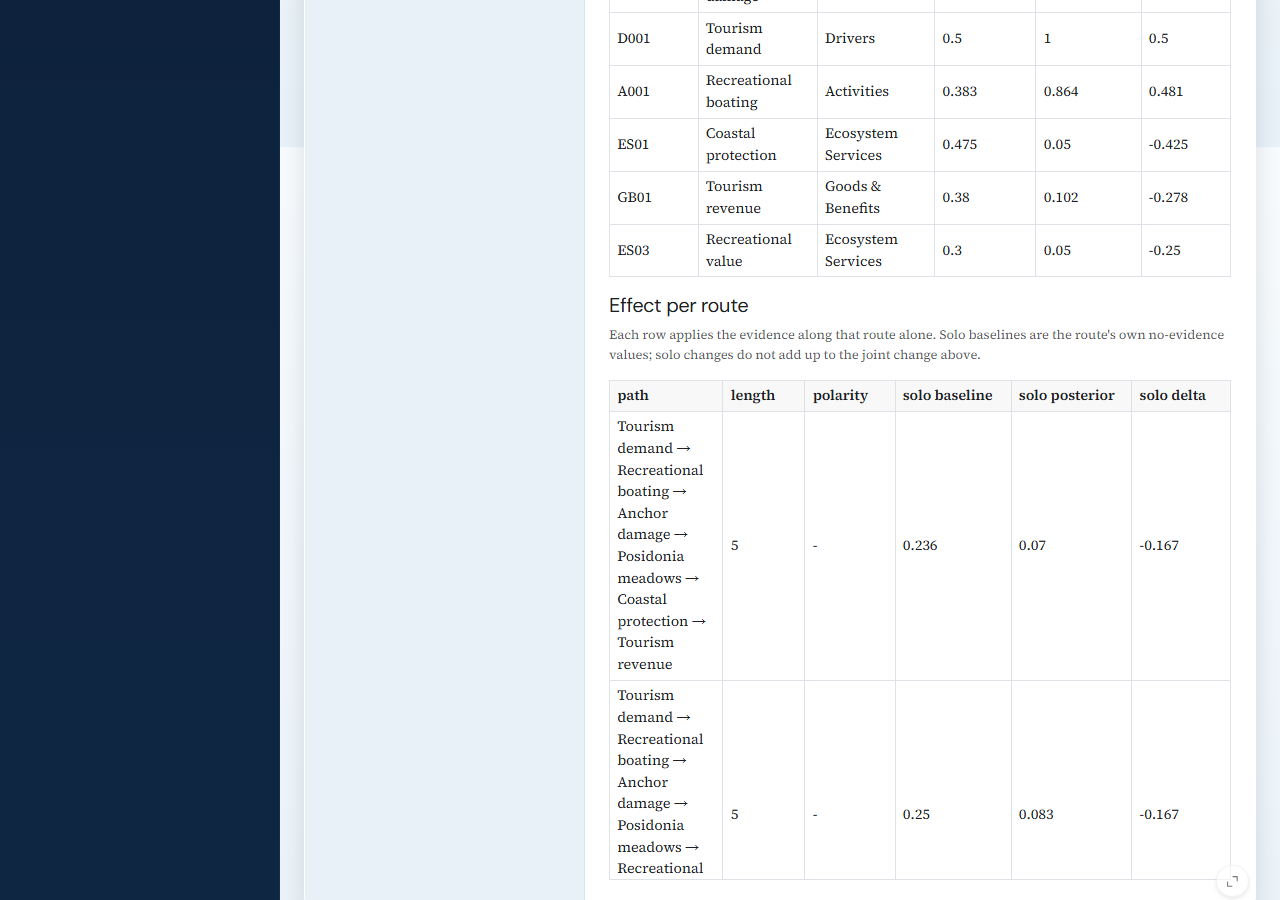
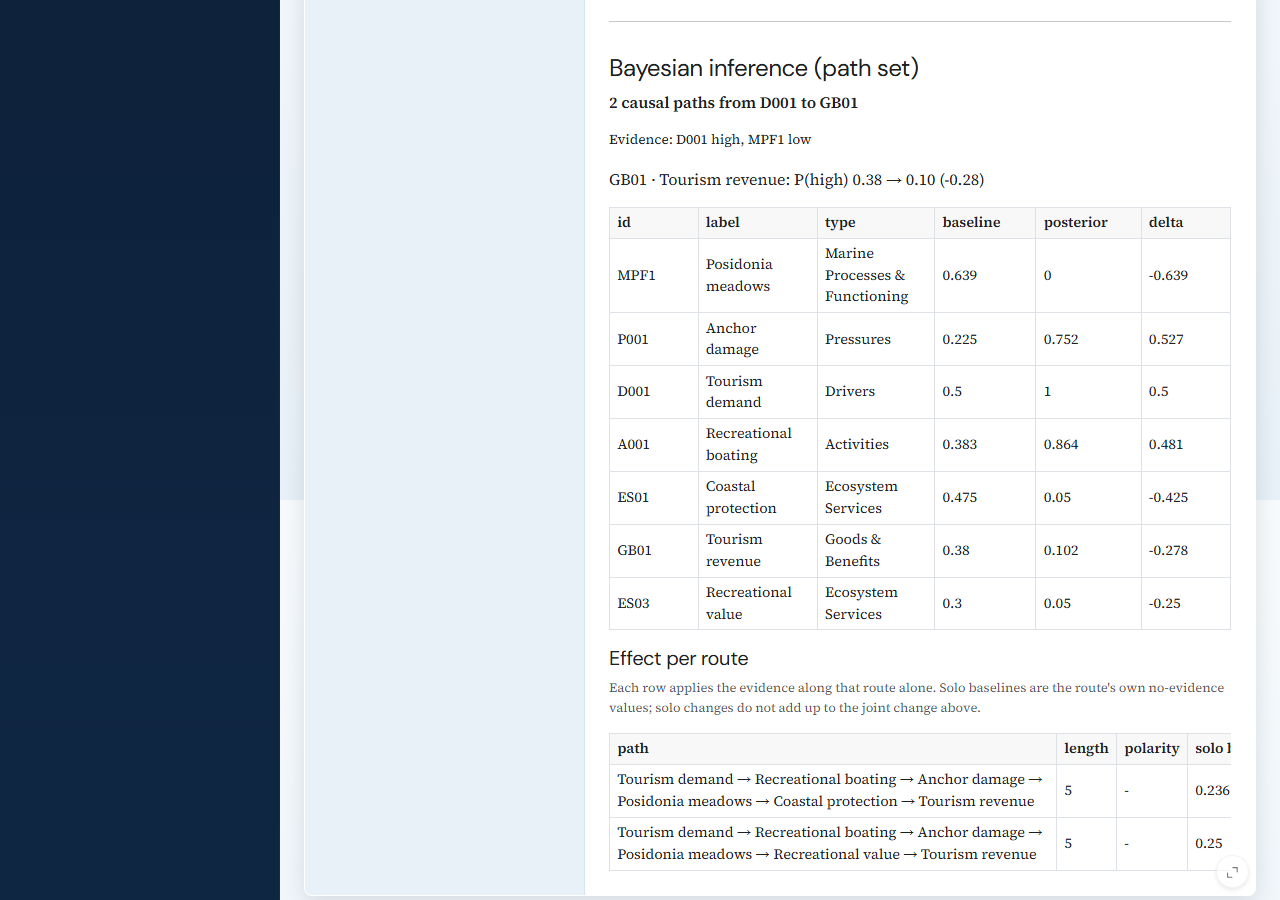
fix(docs): widen the bbn route-path column and grow the shot viewport
The Effect-per-route table wrapped each path into ~10 lines because the
grid gave the path column no minimum width, which is a display defect in
the app itself, not only in the doc screenshot. bbn_paths now renders via
render.DataGrid with a 28rem min-width style on column 0 (same pattern as
rate_connections.py), cutting each path to 2-3 lines.

make_docs_screenshots.shot_at() now grows the viewport (up to 1400px tall)
for the one bbn shot when sel + bottom_sel do not both fit at 900px,
re-scrolling to the same anchor, and restores 900px afterward; it only
falls back to scrolling past the top of the summary if the block still
does not fit at 1400px. The regenerated intervention_bbn.png now shows the
evidence line, the target line, the full table and both route rows
together.

Claude-Session: https://claude.ai/code/session_01FeeVsn6xUxEtPnY7vSrijN

diff --git a/tests/make_docs_screenshots.py b/tests/make_docs_screenshots.py
@@ -145,33 +145,54 @@ class Shooter:
         """Screenshot with the first boxed descendant of `sel` parked under
         the topbar (the metrics cascade capture pattern). If `bottom_sel` is
         given and its first boxed descendant's bottom edge falls below the
-        viewport, scroll down by the overflow so that block is fully in
-        frame, sacrificing the top of `sel` if the combined block is taller
-        than the viewport."""
-        scroll_y = await self.page.eval_on_selector(
-            sel,
-            "el => { const box = Array.from(el.querySelectorAll('*'))"
-            "    .find(c => c.getBoundingClientRect().height > 0) || el;"
-            "  const y = box.getBoundingClientRect().top + window.scrollY - 90;"
-            "  window.scrollTo({top: y, behavior: 'instant'}); return window.scrollY; }")
-        await self.page.wait_for_timeout(500)
-        if not scroll_y:
-            self.warn(f"{name}: {sel} did not scroll into view")
-        if bottom_sel:
-            overflow = await self.page.eval_on_selector(
+        viewport, grow the viewport for this one shot (up to 1400px tall) so
+        both `sel` and `bottom_sel` fit together, re-scrolling to the same
+        anchor; only if the block still does not fit at 1400px does it fall
+        back to scrolling down by the remaining overflow (sacrificing the
+        top of `sel`)."""
+        async def _scroll_to_sel() -> float:
+            return await self.page.eval_on_selector(
+                sel,
+                "el => { const box = Array.from(el.querySelectorAll('*'))"
+                "    .find(c => c.getBoundingClientRect().height > 0) || el;"
+                "  const y = box.getBoundingClientRect().top + window.scrollY - 90;"
+                "  window.scrollTo({top: y, behavior: 'instant'}); return window.scrollY; }")
+
+        async def _overflow() -> float:
+            return await self.page.eval_on_selector(
                 bottom_sel,
                 "el => { const box = Array.from(el.querySelectorAll('*'))"
                 "    .find(c => c.getBoundingClientRect().height > 0) || el;"
-                "  const bottom = box.getBoundingClientRect().bottom;"
-                "  const over = bottom - (window.innerHeight - 20);"
-                "  if (over > 0) window.scrollBy({top: over, behavior: 'instant'});"
-                "  return over; }")
+                "  return box.getBoundingClientRect().bottom - (window.innerHeight - 20); }")
+
+        scroll_y = await _scroll_to_sel()
+        await self.page.wait_for_timeout(500)
+        if not scroll_y:
+            self.warn(f"{name}: {sel} did not scroll into view")
+
+        grew_viewport = False
+        if bottom_sel:
+            overflow = await _overflow()
             if overflow and overflow > 0:
+                new_height = min(1400, 900 + overflow)
+                await self.page.set_viewport_size({"width": 1280, "height": int(new_height)})
+                grew_viewport = True
                 await self.page.wait_for_timeout(300)
+                await _scroll_to_sel()
+                await self.page.wait_for_timeout(300)
+                overflow = await _overflow()
+                if overflow and overflow > 0:
+                    await self.page.evaluate(
+                        "(o) => window.scrollBy({top: o, behavior: 'instant'})", overflow)
+                    await self.page.wait_for_timeout(300)
+
         path = self.out / f"{name}.png"
         await self.page.screenshot(path=str(path), full_page=False)
         print(f"wrote {path} ({path.stat().st_size} bytes)")
         self.written.append(path)
+        if grew_viewport:
+            await self.page.set_viewport_size({"width": 1280, "height": 900})
+            await self.page.wait_for_timeout(300)
 
     async def hide_notifications(self) -> None:
         await self.page.evaluate(

diff --git a/sespy_app/modules/analysis_intervention.py b/sespy_app/modules/analysis_intervention.py
@@ -629,7 +629,7 @@ def analysis_intervention_server(
         if not isinstance(r, dict) or "error" in r:     # None, _COMPUTING, or an error
             return pd.DataFrame(columns=cols)
         by_id = {el.id: el.label for el in project_data.get().isa_data.elements}
-        return pd.DataFrame([{
+        df = pd.DataFrame([{
             "path": " → ".join(by_id.get(n, n) for n in x["path"]),
             "length": x["length"],
             "polarity": x["polarity"],
@@ -637,3 +637,4 @@ def analysis_intervention_server(
             "solo posterior": round(x["p_high"], 3),
             "solo delta": round(x["delta"], 3),
         } for x in r.get("paths", [])], columns=cols)
+        return render.DataGrid(df, styles=[{"cols": [0], "style": {"min-width": "28rem"}}])
